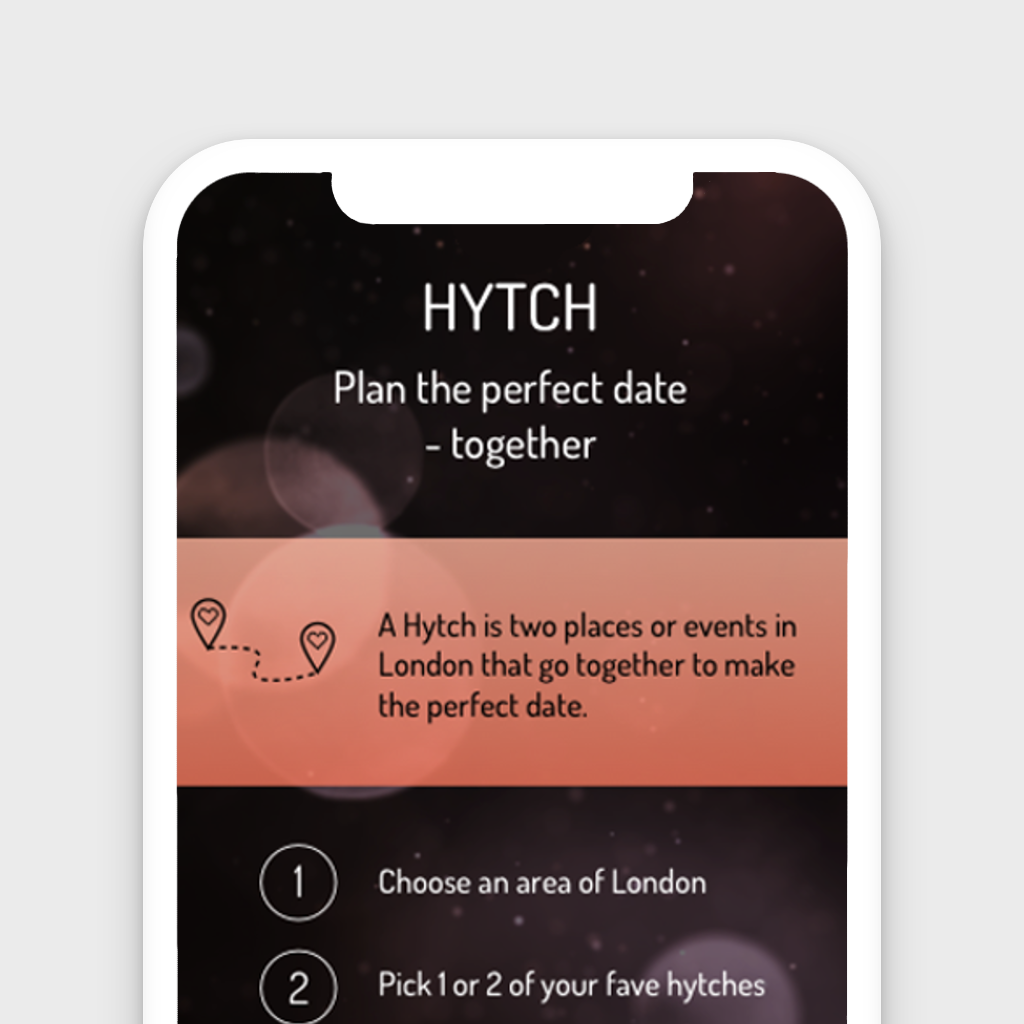
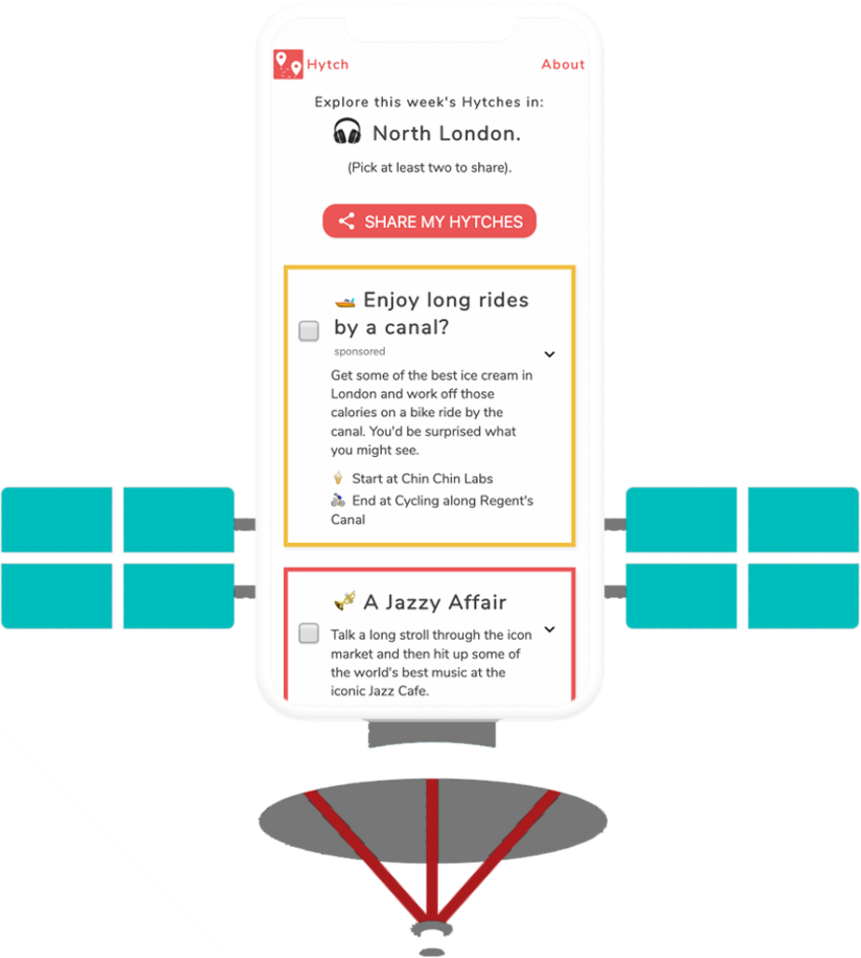
added Hytch

diff --git a/scripts/apps.js b/scripts/apps.js
@@ -1,12 +1,12 @@
 var apps = [
   {
-    name: "Dubzoo",
-    description: "Social analytics tool for creatives, managers and agencies.",
-    brief: "Build a platform for users to track and manage their own/clients social accounts in one place.",
-    builtWith: "React, Node.js. Hosted on Netlify and Heroku.",
-    testimonial: "\"The team not only built what we asked them to but provided us with invaluable technical insights that allowed us to improve our product together. On top of that they employed best practises for hosting and security meaning that our app is scalable and quick while being data intensive.\"",
-    href: "https://dubzoo.netlify.com",
-    imgSrc: "assets/Dubzoo.gif"
+    name: "Hytch",
+    description: "Date idea inspiration for all areas of London. Uses native device browser APIs for sharing of links.",
+    brief: "Build the MVP of this idea as a progressive webapp to test the market.",
+    builtWith: "HTML, CSS, JS.",
+    testimonial: "\"Perfect. 🙏 Yung Neo killing it as per usual...\"",
+    href: "https://www.hytchdates.co",
+    imgSrc: "assets/Hytch.png"
   },
   {
     name: "Cognitant",
@@ -15,7 +15,16 @@ var apps = [
     builtWith: "HTML, CSS, JS.",
     testimonial: "\"We needed this turned around quickly for our upcoming events. The team went above and beyond building what we needed by also hiding future features in our site that we can activate when we have the necessary information and resources.\"",
     href: "https://www.cognitant.com",
-    imgSrc: "assets/Cognitant.gif"
+    imgSrc: "assets/Cognitant.png"
+  },
+  {
+    name: "Dubzoo",
+    description: "Social analytics tool for creatives, managers and agencies.",
+    brief: "Build a platform for users to track and manage their own/clients social accounts in one place.",
+    builtWith: "React, Node.js. Hosted on Netlify and Heroku.",
+    testimonial: "\"...not only built what we asked them to but provided us with invaluable technical insights that allowed us to improve our product. On top of that they employed best practises for hosting and security meaning that our app is scalable and quick while being data intensive.\"",
+    href: "https://dubzoo.netlify.com",
+    imgSrc: "assets/Dubzoo.png"
   }
 ]
 
@@ -65,12 +74,14 @@ unhighlight = () => {
 
 displayApp = () => {
   appPreview.src = apps[selectedApp].imgSrc
+  appPreview.style.display = "none"
   appName.textContent = apps[selectedApp].name
   appDesc.textContent = apps[selectedApp].description
   appBrief.textContent = apps[selectedApp].brief
   appBuiltWith.textContent = apps[selectedApp].builtWith
   appTestimonial.textContent = apps[selectedApp].testimonial
   appLink.href = apps[selectedApp].href
+  appPreview.style.display = "block"
 }
 
 displayApp()

diff --git a/index.html b/index.html
@@ -82,6 +82,7 @@
         <img src="./assets/logo.png" alt="logo" data-tilt data-tilt-max="10" data-tilt-glare data-tilt-max-glare="0.5">
         <div id="landing-text" style="opacity: 0;">
           <h1 class="white">theEmpire</h1>
+          <h3 class="grey">a human tech company</h3>
           <h2 class="grey">we make <span id="term" class="white" onload="cycleTerms()"></span>webapps</h2>
         </div>
       </div>

diff --git a/styles/style.css b/styles/style.css
@@ -54,7 +54,8 @@ li { padding: 20px; }
 #continue a:hover { color: #777; }
 
 #landing img { max-width: 250px; }
-#landing h1, h2 { margin: 10px; }
+#landing h1, h2, h3 { margin: 10px; }
+#landing h3 { margin-bottom: 30px; }
 
 #process img { width: 75px; padding: 2px; }
 #process ul { margin-bottom: 20px; justify-content: center; }
